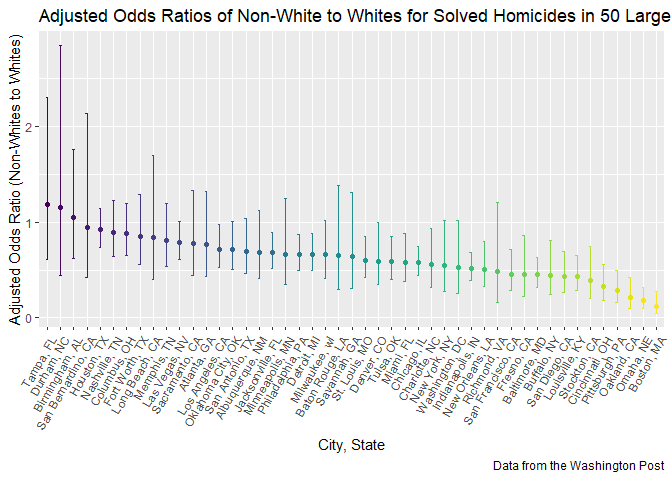
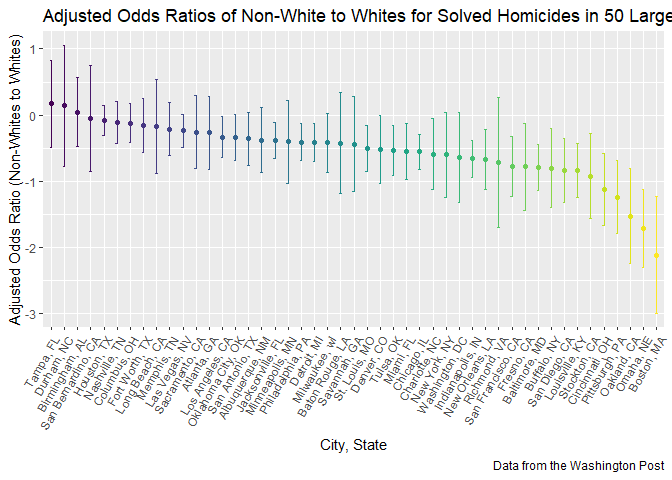
tried some different ways to get conf ints to work

diff --git a/p8105_hw6_alc2279.md b/p8105_hw6_alc2279.md
@@ -112,14 +112,12 @@ balt_solved_logistic =
   glm(solved ~ victim_age + victim_sex + victim_race_white, data = ., family = binomial())
 
   balt_solved_logistic %>% 
-    broom::tidy(conf.int = TRUE) %>% 
-    mutate(odds_ratio = exp(estimate),
-           adj_conf_low = exp(conf.low), 
-           adj_conf_high = exp(conf.high),
-           term = recode(term, victim_sexMale = "victim_sex: male", 
+    broom::tidy(conf.int = TRUE, exponentiate = TRUE) %>% 
+    janitor::clean_names() %>%
+    mutate(term = recode(term, victim_sexMale = "victim_sex: male", 
                          victim_race_whitenonwhite = "victim_race: nonwhite")) %>% 
-    select(Term = term, "Adj Odds Ratio" = odds_ratio, "Adj Conf: Lower bound" = adj_conf_low, 
-           "Adj Conf: Upper bound" = adj_conf_high) %>% 
+    select(Term = term, "Adj Odds Ratio" = estimate, "Adj Conf: Lower bound" = conf_low, 
+           "Adj Conf: Upper bound" = conf_high) %>% 
     knitr::kable(digits = 3)
 ```
 
@@ -166,12 +164,33 @@ glm_homicide_function = function(df) {
   glm(solved ~ victim_age + victim_sex + victim_race_white, data = df, family = binomial())
 }
 
+
 homocide_odds_city = 
   homicide_data %>% 
   group_by(city_state) %>%       
   nest() %>% 
   mutate(log_models = map(.x = data, glm_homicide_function),
-         tidy_models = map(log_models, broom::tidy, conf.int = TRUE))  %>% 
+         tidy_models = map(log_models, broom::tidy))  %>% 
+  select(-data, -log_models) %>% 
+  unnest() %>% 
+  janitor::clean_names() %>% 
+  mutate(conf_low = estimate - (1.96 * std_error), 
+         conf_high = estimate + (1.96 * std_error)) %>% 
+  filter(term == "victim_race_whitenonwhite") %>% 
+  select(city_state, estimate, conf_low, conf_high)
+
+
+broom_function = function(df) {
+  df %>% 
+    broom::tidy(conf.int = TRUE, exponentiate = TRUE)
+}
+
+
+  homicide_data %>% 
+  group_by(city_state) %>%       
+  nest() %>% 
+  mutate(log_models = map(.x = data, glm_homicide_function),
+         tidy_models = map(log_models, broom_function))  %>% 
   select(-data, -log_models) %>% 
   unnest() %>% 
   janitor::clean_names() %>% 
@@ -678,6 +697,21 @@ homocide_odds_city =
 
     ## Warning: glm.fit: fitted probabilities numerically 0 or 1 occurred
 
+    ## # A tibble: 47 x 4
+    ##    city_state      odds_ratio conf_low conf_high
+    ##    <chr>                <dbl>    <dbl>     <dbl>
+    ##  1 Albuquerque, NM       1.99     1.52      3.08
+    ##  2 Atlanta, GA           2.15     1.54      3.75
+    ##  3 Baltimore, MD         1.57     1.38      1.89
+    ##  4 Baton Rouge, LA       1.93     1.35      3.97
+    ##  5 Birmingham, AL        2.85     1.86      5.81
+    ##  6 Boston, MA            1.13     1.05      1.31
+    ##  7 Buffalo, NY           1.56     1.27      2.25
+    ##  8 Charlotte, NC         1.74     1.37      2.54
+    ##  9 Chicago, IL           1.78     1.56      2.12
+    ## 10 Cincinnati, OH        1.39     1.20      1.74
+    ## # ... with 37 more rows
+
 Part 5: Make a plot of the models by city
 -----------------------------------------
 
@@ -685,8 +719,8 @@ Create a plot that shows the estimated ORs and CIs for each city. Organize citie
 
 ``` r
 homocide_odds_city %>% 
-  mutate(city_state = fct_reorder(city_state, desc(odds_ratio))) %>%
-  ggplot(aes(x = city_state, y = odds_ratio, color = city_state)) + 
+  mutate(city_state = fct_reorder(city_state, desc(estimate))) %>%
+  ggplot(aes(x = city_state, y = estimate, color = city_state)) + 
     geom_point() +
     geom_errorbar(aes(ymin = conf_low, ymax = conf_high, width = 0.2)) + 
     theme(axis.text.x = element_text(angle = 60, hjust = 1),
